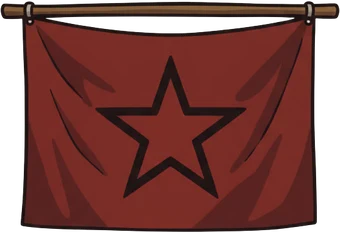
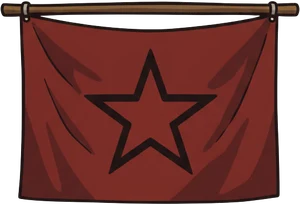
Ангар: ракета 8 стадий

diff --git a/app/test-hangar/page.tsx b/app/test-hangar/page.tsx
@@ -7,8 +7,10 @@ import { useState } from 'react'
 import layout from '@/lib/hangarLayout.json'
 
 type Slot = { src: string; x: number; y: number; w: number; h: number }
-const L = layout as unknown as Record<string, { b: Slot; a: Slot }>
-const IDS = Object.keys(L).map(Number).sort((a, b) => a - b)
+const L = layout as unknown as Record<string, { b: Slot; a: Slot }> & { rocket: Slot[] }
+const IDS = Object.keys(L).filter((k) => k !== 'rocket').map(Number).sort((a, b) => a - b)
+// Ракета: стадия = сколько заданий второй части (14–20) решено. Каждое задание добавляет одну деталь.
+const ROCKET_PARTS = ['Опоры', 'Сопло', 'Обшивка', 'Стабилизаторы', 'Боковые баки', 'Звезда', 'Нос']
 const NAMES: Record<number, string> = {
     1: 'Кабель', 2: 'Ключи', 3: 'Стремянка', 4: 'Шуруповёрт', 5: 'Бочка', 6: 'Флаг', 7: 'Пульт',
     8: 'Лампа', 9: 'Огнетушитель', 10: 'Аппарат', 11: 'Инструменты', 12: 'Ящик', 13: 'Робот',
@@ -51,6 +53,8 @@ export default function Page() {
     const [time, setTime] = useState<Time>('day')
     const toggle = (id: number) => setDone((s) => { const n = new Set(s); if (n.has(id)) n.delete(id); else n.add(id); return n })
     const lampOn = done.has(8)
+    const [stage, setStage] = useState(0)
+    const R = L.rocket[stage]
     return (
         <div className="min-h-screen bg-[#0F171B] px-4 py-5 text-white">
             <style>{`@keyframes hangar-pop{0%{transform:scale(.6);opacity:0}60%{transform:scale(1.08);opacity:1}100%{transform:scale(1)}}`}</style>
@@ -59,6 +63,15 @@ export default function Page() {
                 <div className="relative aspect-square w-full overflow-hidden rounded-2xl border-2 border-[#2C3A41]">
                     {/* eslint-disable-next-line @next/next/no-img-element */}
                     <img src="/hangar/bg.webp" alt="" className="absolute inset-0 h-full w-full" draggable={false} />
+                    {/* eslint-disable-next-line @next/next/no-img-element */}
+                    <img key={R.src} src={R.src} alt="Ракета" draggable={false} className="absolute select-none"
+                        style={{ left: pct(R.x - R.w / 2), top: pct(R.y - R.h), width: pct(R.w), animation: stage ? 'hangar-pop .6s ease-out' : undefined }} />
+                    {stage < 7 && (
+                        <span className="absolute flex h-[6%] w-[6%] -translate-x-1/2 -translate-y-1/2 items-center justify-center rounded-full border-2 border-white text-[clamp(9px,2.4vw,15px)] font-black text-[#0F171B]"
+                            style={{ left: pct(R.x + R.w * 0.42), top: pct(R.y - R.h * 0.55), background: '#C385F7', boxShadow: '0 2px 6px rgba(0,0,0,.5)' }}>
+                            {14 + stage}
+                        </span>
+                    )}
                     {IDS.map((id) => <Item key={id} id={id} done={done.has(id)} />)}
                     <div className="pointer-events-none absolute inset-0 transition-[background] duration-700" style={{ background: TIME_TINT[time], mixBlendMode: 'multiply' }} />
                     {/* свет лампы — отдельный слой, плавно разгорается */}
@@ -73,9 +86,16 @@ export default function Page() {
                             {t === 'day' ? 'День' : t === 'evening' ? 'Вечер' : 'Ночь'}
                         </button>
                     ))}
-                    <button onClick={() => setDone(done.size === IDS.length ? new Set() : new Set(IDS))} className="ml-auto rounded-lg bg-[#26333B] px-3 py-1.5 text-sm font-bold">
+                    <button onClick={() => { const all = done.size === IDS.length; setDone(all ? new Set() : new Set(IDS)); setStage(all ? 0 : 7) }} className="ml-auto rounded-lg bg-[#26333B] px-3 py-1.5 text-sm font-bold">
                         {done.size === IDS.length ? 'Сломать всё' : 'Починить всё'}
                     </button>
+                </div>
+                <div className="mt-3 rounded-xl bg-[#1C262B] px-3 py-2.5">
+                    <div className="flex items-center justify-between text-sm font-bold">
+                        <span>Ракета: решено {stage} из 7 заданий второй части</span>
+                        <span className="text-[#C385F7]">{stage < 7 ? `дальше: №${14 + stage} ${ROCKET_PARTS[stage]}` : 'готова к старту 🚀'}</span>
+                    </div>
+                    <input type="range" min={0} max={7} value={stage} onChange={(e) => setStage(+e.target.value)} className="mt-2 w-full" />
                 </div>
                 <div className="mt-3 grid grid-cols-2 gap-1.5 sm:grid-cols-3">
                     {IDS.map((id) => (

diff --git a/docs/hangar/tools/build.py b/docs/hangar/tools/build.py
@@ -14,7 +14,7 @@ ITEMS = {
   3:  ('03-before', '03-after',  dict(b=(735, 790, 230), a=(850, 735, 75)),  1, 1,   True),
   4:  ('04-before', '04-after',  dict(b=(575, 975, 115), a=(575, 975, 78)),  .7, 1,  False),
   5:  ('05-before', '05-after',  dict(b=(905, 875, 175), a=(930, 860, 70)),  1, 1,   False),
-  6:  ('06-before', '06-after',  dict(b=(865, 1020, 210), a=(512, 205, 170)), 1, 1,  False),
+  6:  ('06-before', '06-after',  dict(b=(865, 1020, 210), a=(512, 190, 150)), 1, 1,  False),
   7:  ('07-before', '07-after',  dict(b=(860, 715, 165), a=(860, 715, 165)), 1, 1,   False),
   8:  ('08-before', '08-after',  dict(b=(232, 470, 74), a=(232, 470, 68)),   1, 1,   False),
   9:  ('09-before', '09-after',  dict(b=(330, 915, 120), a=(210, 790, 40)),  1, 1,   False),
@@ -54,11 +54,25 @@ for i, (bn, an, pos, sb, sa, flip) in ITEMS.items():
         fn = f'{i:02d}-{"before" if key == "b" else "after"}.webp'
         im.save(f'{OUT}/{fn}', quality=88)
         layout.setdefault(i, {})[key] = dict(src=f'/hangar/{fn}', x=x, y=y, w=w, h=h)
+# Ракета: 8 стадий R0–R7 (решено заданий второй части 0…7). Общая рамка для всех стадий — не прыгает.
+RX, RY, RH = 512, 668, 435          # середина низа и высота ракеты на холсте фона
+box = (205, 100, 815, 935)          # объединение рамок всех стадий
+rocket = []
+for st in range(8):
+    im = Image.open(f'{H}/R{st}.png').convert('RGBA').crop(box)
+    w = round(im.width * RH / im.height)
+    im = grade(im).resize((w * 2, RH * 2), Image.Resampling.LANCZOS)
+    im.save(f'{OUT}/R{st}.webp', quality=88)
+    rocket.append(dict(src=f'/hangar/R{st}.webp', x=RX, y=RY, w=w, h=RH))
+layout['rocket'] = rocket
 json.dump(layout, open('lib/hangarLayout.json', 'w'), indent=1)
 
 def compose(state):
     c = bg.convert('RGBA')
+    r = layout['rocket'][0 if state == 'b' else 7]
+    c.alpha_composite(Image.open(f'{OUT}/R{0 if state == "b" else 7}.webp').resize((r['w'], r['h'])), (round(r['x'] - r['w'] / 2), r['y'] - r['h']))
     for i, L in layout.items():
+        if i == 'rocket': continue
         p = L[state]; im = Image.open(f'{OUT}' + p['src'][len('/hangar'):]).resize((p['w'], p['h']))
         if i not in (2, 6, 8) or state == 'b' and i == 6:  # тень под предметами на полу
             sh = Image.new('L', c.size, 0); ImageDraw.Draw(sh).ellipse((p['x'] - p['w'] * .45, p['y'] - p['h'] * .07 - 4, p['x'] + p['w'] * .45, p['y'] + p['h'] * .05 + 4), fill=120)

diff --git a/CLAUDE.md b/CLAUDE.md
@@ -14949,7 +14949,7 @@ source 'storm', ref `storm:<день>`). Считается в `actions/plan-les
 начатые приглушены. `TinyMedal boost` — серебро ×1.65 и бронза ×1.3 (у них крылья шире, медаль на картинке ниже золотой).
 
 ## «Ангар» — картинка-раскраска прогресса ЕГЭ (2026-10-29, проба)
-Идея: задания 1–13 — предметы в ангаре («сломано → на месте»), 14–20 — ракета (8 стадий R0–R7, ещё не нарисованы).
+Идея: задания 1–13 — предметы в ангаре («сломано → на месте»), 14–20 — ракета (8 стадий R0–R7, бело-красная со звездой; оливковую пробовали — не понравилась): стадия = сколько заданий второй части решено, каждое добавляет деталь (опоры, сопло, обшивка, стабилизаторы, баки, звезда, нос).
 Тренажёры дают медали у детали, решённый раздел задачника ставит деталь на место. Будет в «Моём пути» и переключателем в задачнике.
 Исходники — `docs/hangar/` (фон `bg-empty.jpg`, предметы `NN-before/after.png`, кусочки `crops/`), сборка —
 `python3 docs/hangar/tools/build.py` (обрезка, сжатие перспективы, приглушение цветов, координаты) → `public/hangar/*.webp`
